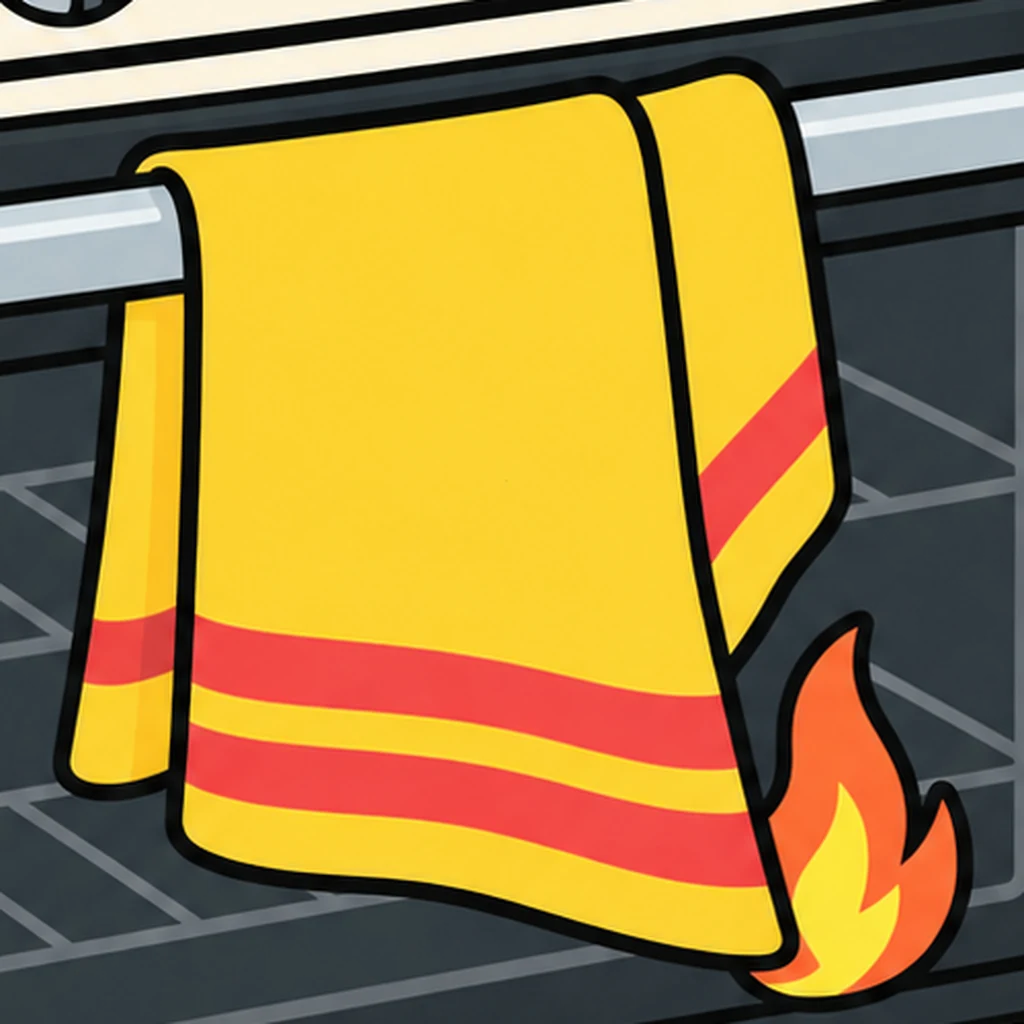
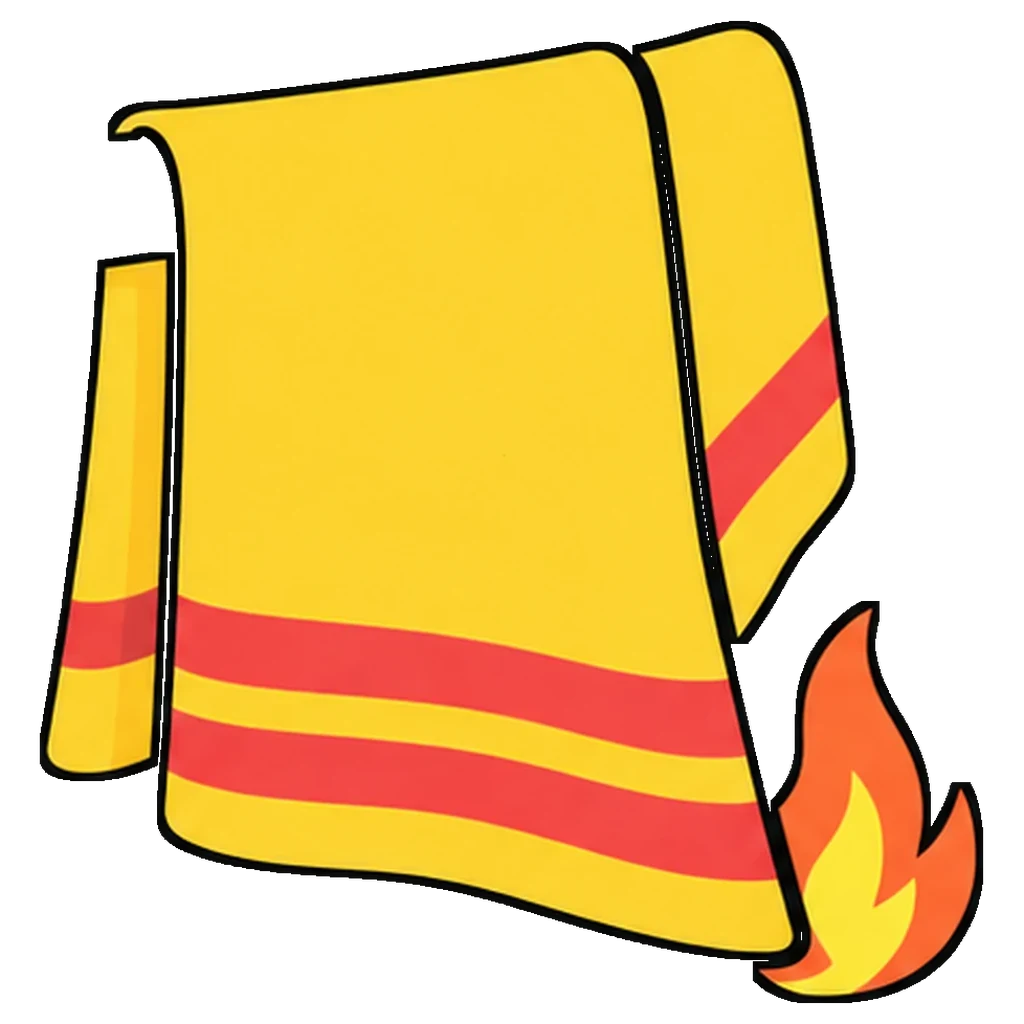
Hazard Hunt: pieces sit on the counters and the floor, smaller and spread out; towel cut clean and hung on the oven handle

diff --git a/games/hazard-hunt.html b/games/hazard-hunt.html
@@ -219,33 +219,33 @@
        piece sized to its hit region below. Hidden until the files exist. -->
   <g id="hhArt" style="display:none">
     <image id="hhArtScene" data-href="art/hazard-hunt-scene.webp" x="0" y="0" width="880" height="520" preserveAspectRatio="none"/>
-    <image data-art="pot" data-href="art/hazard-hunt-pot.webp" x="322" y="168" width="118" height="100"/>
-    <image data-art="mitt" data-href="art/hazard-hunt-mitt.webp" x="214" y="58" width="74" height="98"/>
-    <image data-art="knife" data-href="art/hazard-hunt-knife.webp" x="105" y="188" width="95" height="72"/>
-    <image data-art="cabinet" data-href="art/hazard-hunt-cabinet.webp" x="386" y="26" width="120" height="142"/>
-    <image data-art="wet" data-href="art/hazard-hunt-wet.webp" x="128" y="376" width="155" height="95"/>
-    <image data-art="bag" data-href="art/hazard-hunt-bag.webp" x="536" y="372" width="115" height="115"/>
-    <image data-art="towel" data-href="art/hazard-hunt-towel.webp" x="400" y="258" width="95" height="95"/>
-    <image data-art="cord" data-href="art/hazard-hunt-cord.webp" x="440" y="160" width="125" height="90"/>
-    <image data-art="mixer" data-href="art/hazard-hunt-mixer.webp" x="14" y="160" width="100" height="95"/>
-    <image data-art="chicken" data-href="art/hazard-hunt-chicken.webp" x="612" y="172" width="125" height="84"/>
-    <image data-art="spray" data-href="art/hazard-hunt-spray.webp" x="212" y="166" width="62" height="88"/>
-    <image data-art="milk" data-href="art/hazard-hunt-milk.webp" x="686" y="160" width="62" height="90"/>
+    <image data-art="pot" data-href="art/hazard-hunt-pot.webp" x="345" y="182" width="80" height="68"/>
+    <image data-art="mitt" data-href="art/hazard-hunt-mitt.webp" x="238" y="158" width="50" height="66"/>
+    <image data-art="knife" data-href="art/hazard-hunt-knife.webp" x="70" y="195" width="84" height="60"/>
+    <image data-art="cabinet" data-href="art/hazard-hunt-cabinet.webp" x="372" y="30" width="112" height="122"/>
+    <image data-art="wet" data-href="art/hazard-hunt-wet.webp" x="110" y="400" width="130" height="75"/>
+    <image data-art="bag" data-href="art/hazard-hunt-bag.webp" x="560" y="385" width="95" height="100"/>
+    <image data-art="towel" data-href="art/hazard-hunt-towel.webp" x="452" y="262" width="62" height="74"/>
+    <image data-art="cord" data-href="art/hazard-hunt-cord.webp" x="440" y="185" width="80" height="60"/>
+    <image data-art="mixer" data-href="art/hazard-hunt-mixer.webp" x="10" y="172" width="78" height="78"/>
+    <image data-art="chicken" data-href="art/hazard-hunt-chicken.webp" x="528" y="190" width="100" height="62"/>
+    <image data-art="spray" data-href="art/hazard-hunt-spray.webp" x="200" y="182" width="48" height="68"/>
+    <image data-art="milk" data-href="art/hazard-hunt-milk.webp" x="655" y="184" width="46" height="66"/>
   </g>
   <!-- hit regions: generous, invisible, drawn last so they sit on top -->
   <g id="hhHits" fill="transparent" stroke="none">
-    <rect data-hz="pot" x="322" y="168" width="118" height="100"/>
-    <rect data-hz="mitt" x="214" y="58" width="74" height="98"/>
-    <rect data-hz="knife" x="105" y="188" width="95" height="72"/>
-    <rect data-hz="cabinet" x="386" y="26" width="120" height="142"/>
-    <rect data-hz="wet" x="128" y="376" width="155" height="95"/>
-    <rect data-hz="bag" x="536" y="372" width="115" height="115"/>
-    <rect data-hz="towel" x="400" y="258" width="95" height="95"/>
-    <rect data-hz="cord" x="440" y="160" width="125" height="90"/>
-    <rect data-hz="mixer" x="14" y="160" width="100" height="95"/>
-    <rect data-hz="chicken" x="612" y="172" width="125" height="84"/>
-    <rect data-hz="spray" x="212" y="166" width="62" height="88"/>
-    <rect data-hz="milk" x="686" y="160" width="62" height="90"/>
+    <rect data-hz="pot" x="337" y="174" width="96" height="84"/>
+    <rect data-hz="mitt" x="230" y="150" width="66" height="82"/>
+    <rect data-hz="knife" x="62" y="187" width="100" height="76"/>
+    <rect data-hz="cabinet" x="364" y="22" width="128" height="138"/>
+    <rect data-hz="wet" x="102" y="392" width="146" height="91"/>
+    <rect data-hz="bag" x="552" y="377" width="111" height="116"/>
+    <rect data-hz="towel" x="444" y="254" width="78" height="90"/>
+    <rect data-hz="cord" x="432" y="177" width="96" height="76"/>
+    <rect data-hz="mixer" x="2" y="164" width="94" height="94"/>
+    <rect data-hz="chicken" x="520" y="182" width="116" height="78"/>
+    <rect data-hz="spray" x="192" y="174" width="64" height="84"/>
+    <rect data-hz="milk" x="647" y="176" width="62" height="82"/>
   </g>
   <g id="hhMarks"></g>
 </svg>
